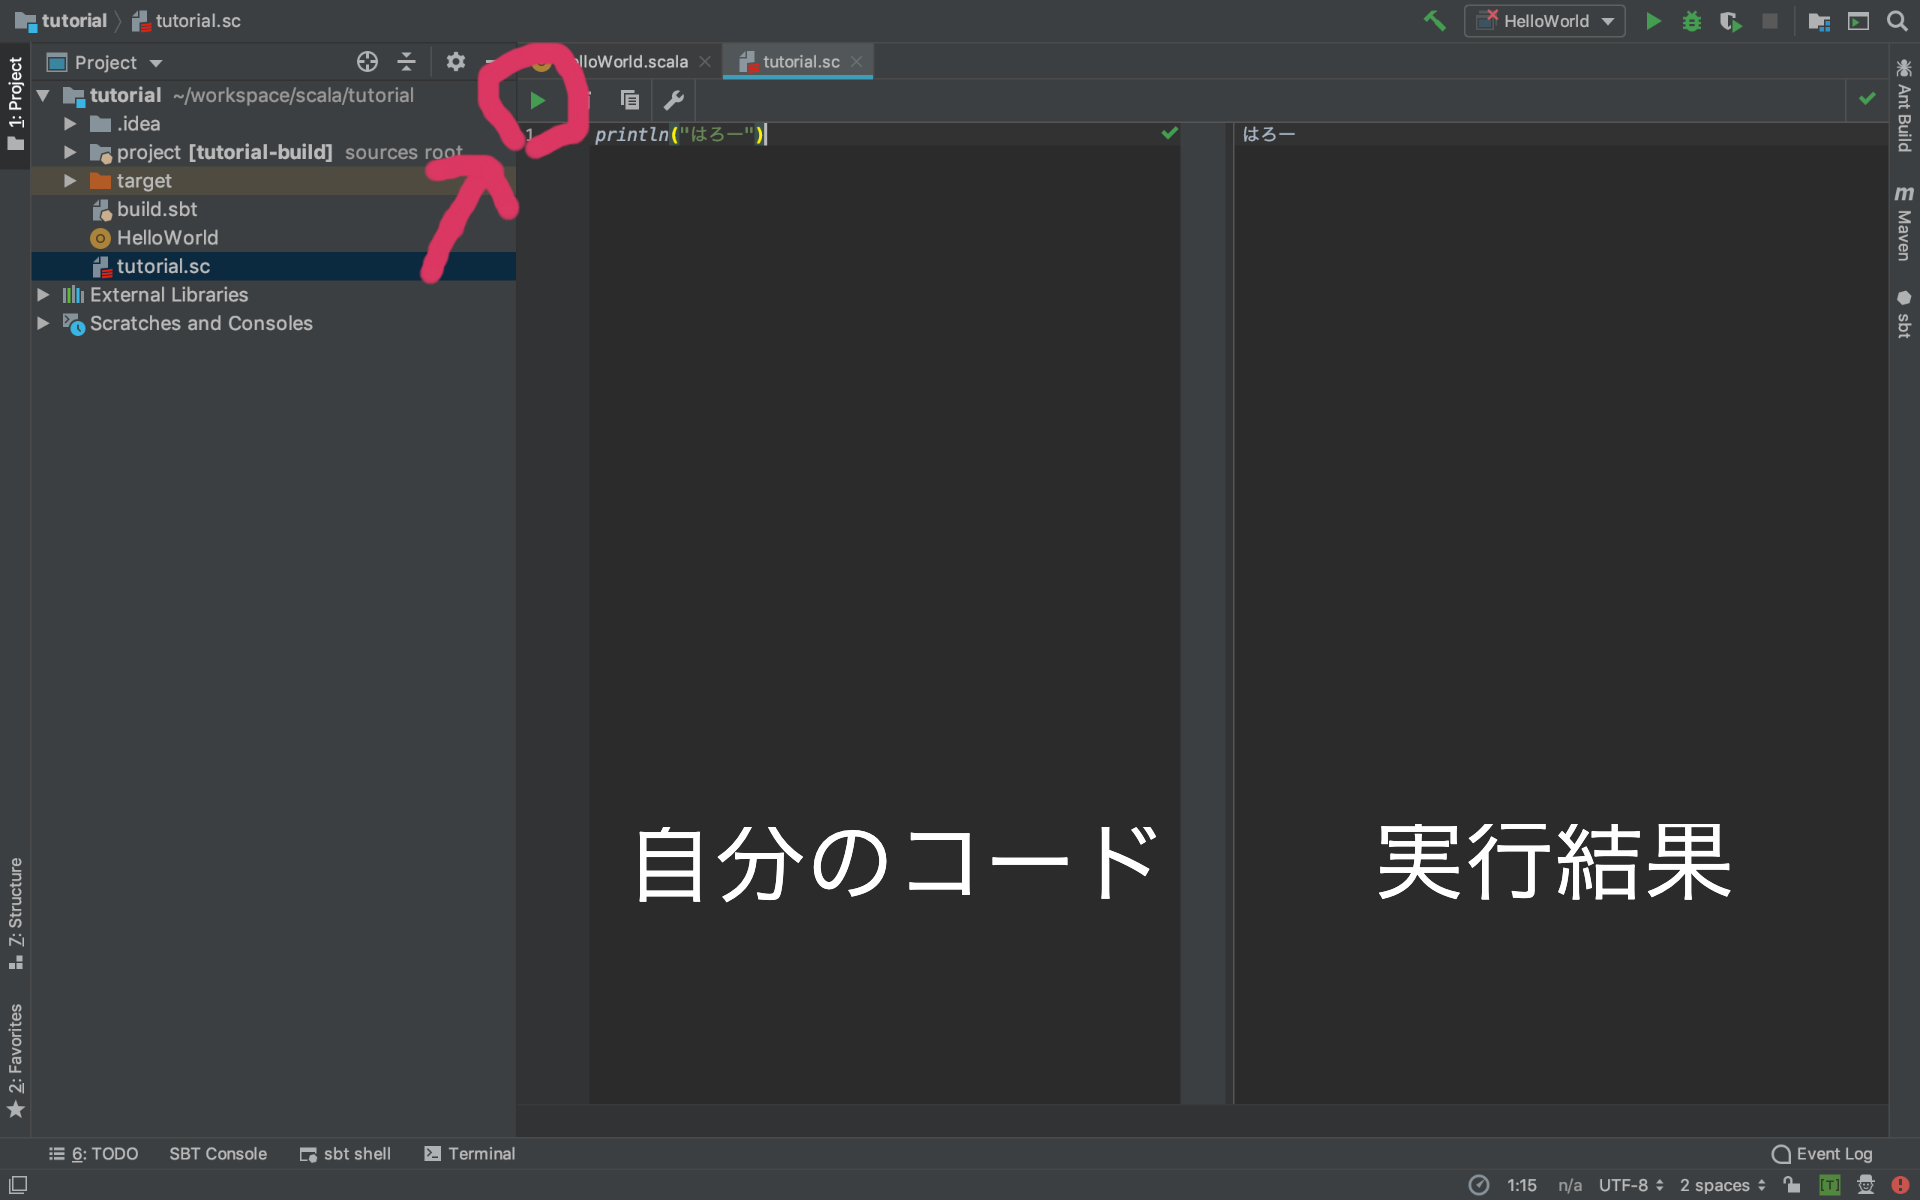
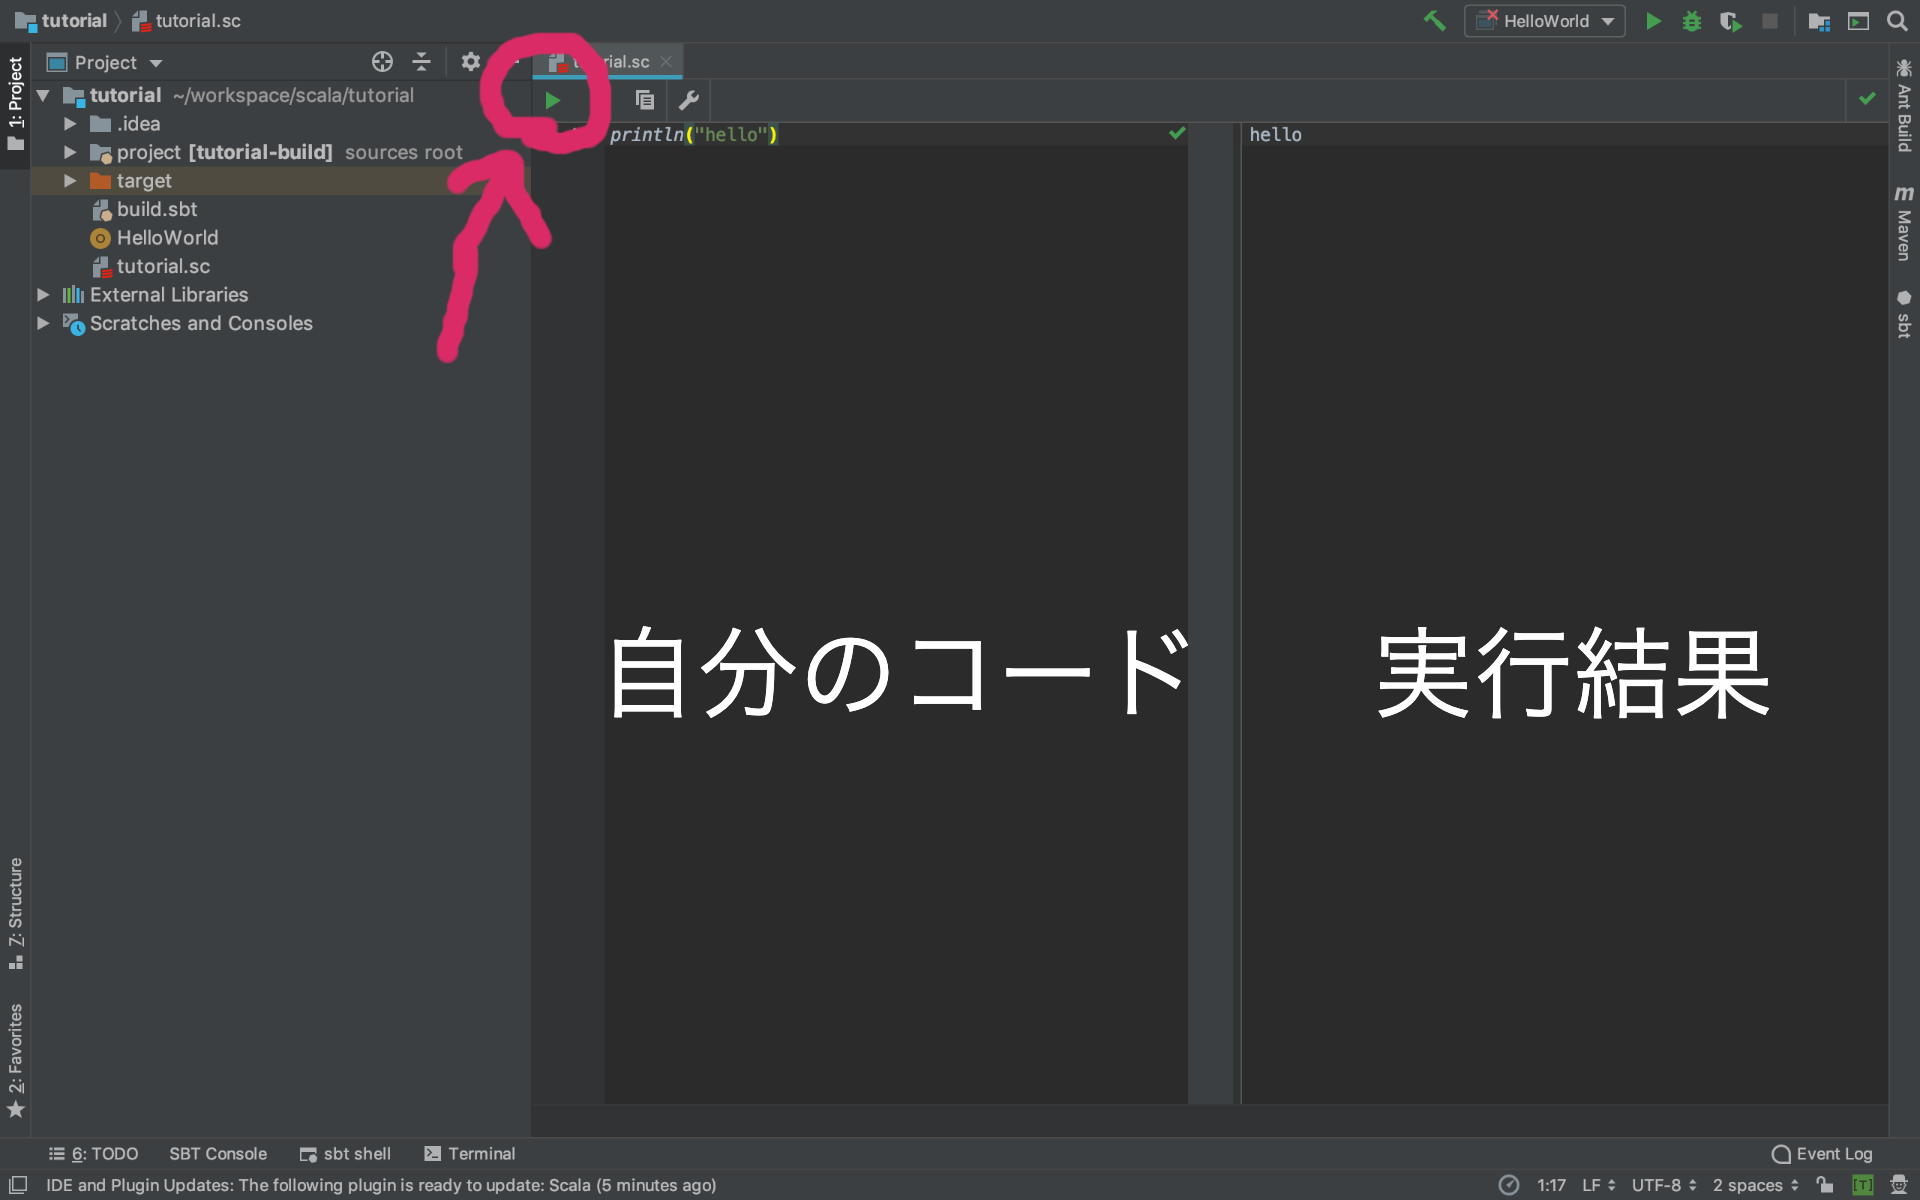
printlnで出力する例を、[はろー]から[hello]に変更

diff --git a/docs/basic/output.md b/docs/basic/output.md
@@ -1,12 +1,13 @@
 先程より何度も出ている以下のコードについて解説します。
 ```scala
-println("はろー")
+println("hello")
 ```
 `println`は**関数**と呼ばれるものです。  
 **関数**は**引数**と呼ばれるものをカッコで受け取ることができます。  
-今回は`"はろー"`という文字を引数としています。  
-`"はろー"`を`println`関数に渡すことで、  
-実行時に`はろー`と表示することができます。
+今回は`"hello"`という文字を引数としています。  
+`"hello"`を`println`関数に渡すことで、  
+実行時に`hello`と表示することができます。  
+`"`の読み方は**ダブルコーテーション**です
 
 !!! チャレンジ
     `"`の間の文字を自分の好きな文字に置き換えて出力してみましょう。

diff --git a/docs/setup/worksheet.md b/docs/setup/worksheet.md
@@ -21,7 +21,7 @@ tutorial/
 早速`tutorial.sc`にScalaを書き込み、実行してみましょう。  
 コードの解説などは次ページ以降に行います。  
 ```scala
-println("はろー")
+println("hello")
 ```
 
 赤で囲っている再生マークをクリックすると、実行されます。  
